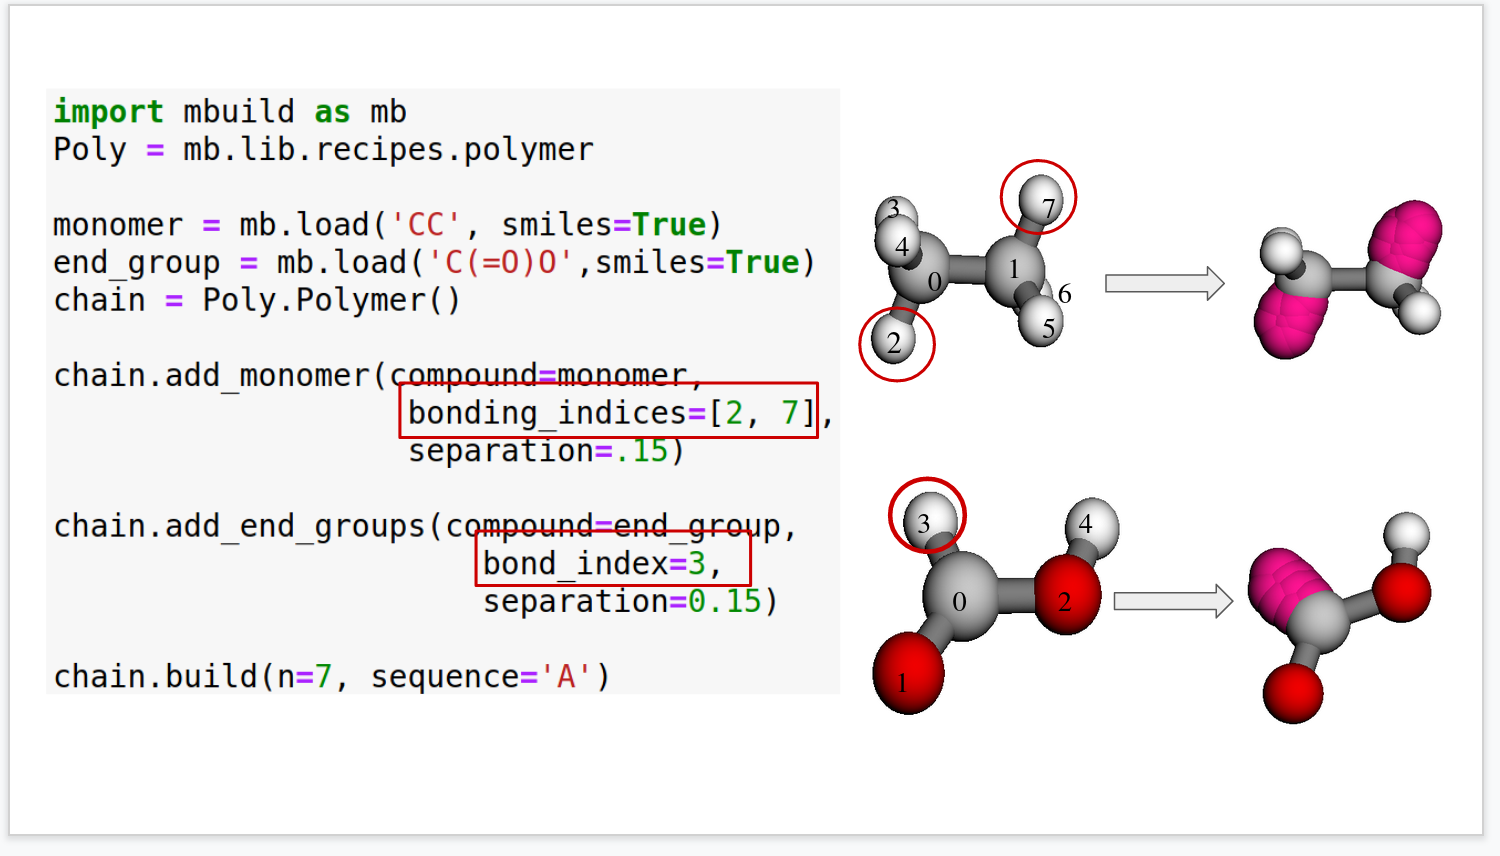
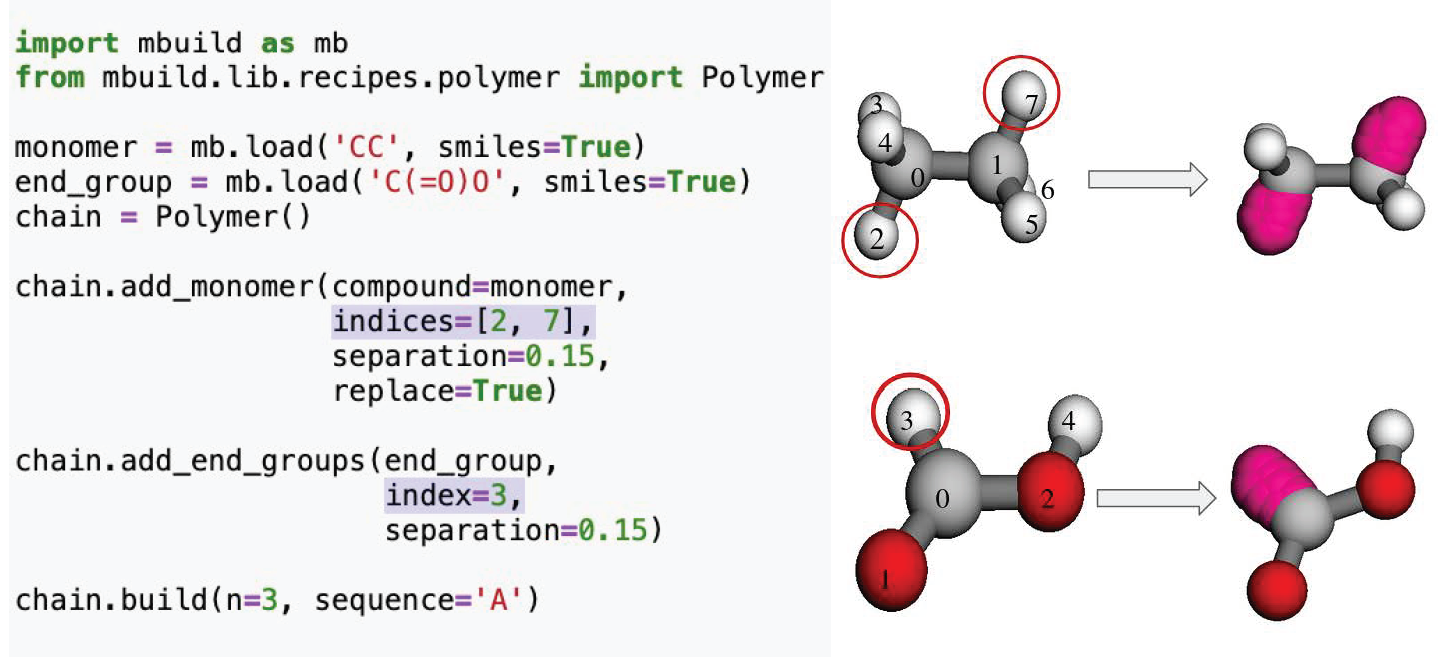
update the polymer class tutorial image and added a caption

diff --git a/docs/getting_started/tutorials/tutorial_polymers.rst b/docs/getting_started/tutorials/tutorial_polymers.rst
@@ -196,10 +196,14 @@ argument not just the replicates (``n``), ``sequence`` ('A' for a single monomer
 Then, it binds them together by removing atom/bead via specifying its index number (``indices``).
 A graphical description of the polymer builder creating ports, then bonding them together is provided below.
 
-.. image:: ../../images/polymer_image.png
+.. figure:: ../../images/polymer_image.png
     :width: 100 %
     :align: center
 
+    **Polymer builder class example.** This shows how to define the atoms, which are replaced with ports.  The ports are then bonded together between the monomers.  Additionally, these ports can be utilized for adding different end groups moieties to the polymer.
+
+.. note::
+    The port locations may be critical to ensure the molecule is not overlapping when it is built.
 
 Building a Simple Hexane
 ----------------------------
